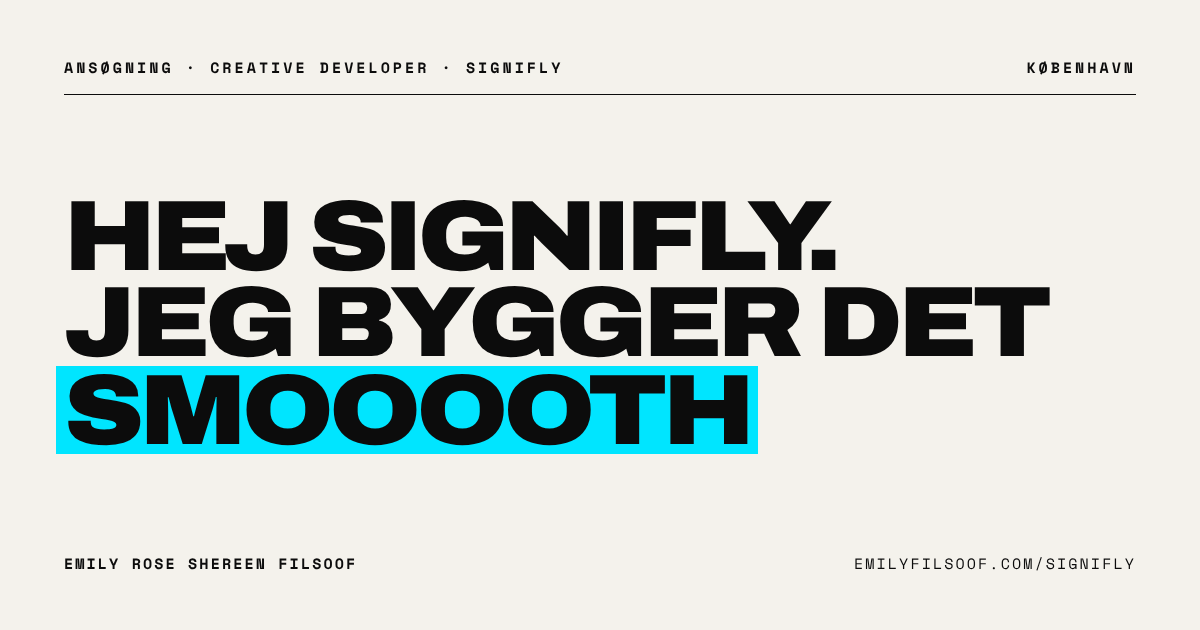
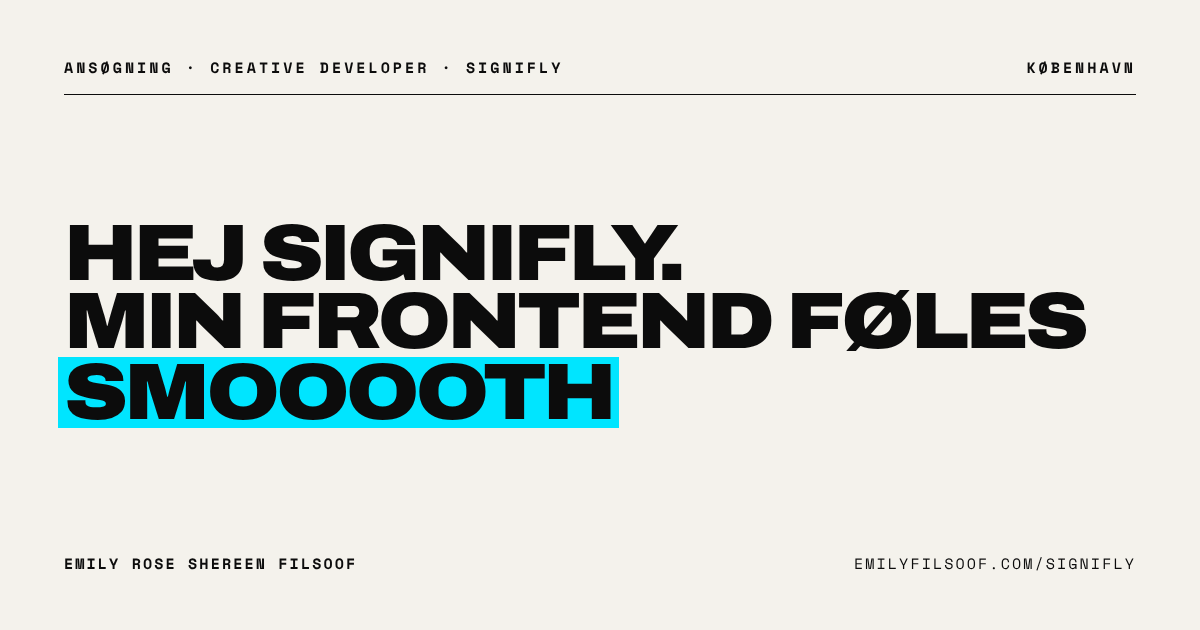
Signifly copy: 'Min frontend føles smooooth' and 'Skal vi tage en snak?'
'Jeg bygger det smooth' and 'Lad os tale om det' read as translated English.
The share image follows the new headline. The section heading with
emilyfilsoof.com no longer runs off 320px phones.

Claude-Session: https://claude.ai/code/session_01Kj2p2N6W6cLQYgAGRRy3tD

Changed region(s): [[0.0308, 0.3016, 0.925, 0.7238]]

diff --git a/src/app/signifly/page.tsx b/src/app/signifly/page.tsx
@@ -75,7 +75,7 @@ export default function SigniflyPage() {
         <div className={styles.heroMain}>
           <h1 className={styles.title}>
             <span className={styles.line}>Hej Signifly.</span>
-            <span className={styles.line}>Jeg bygger det</span>
+            <span className={styles.line}>Min frontend føles</span>
             <span className={`${styles.line} ${styles.smoothLine}`}>
               <Smooth />
             </span>
@@ -219,7 +219,7 @@ export default function SigniflyPage() {
       </section>
 
       <section className={`page ${styles.cta}`} data-bg="#00e5ff" data-ink="#0c0c0c">
-        <h2 className={styles.ctaTitle}>Lad os tale om det.</h2>
+        <h2 className={styles.ctaTitle}>Skal vi tage en snak?</h2>
         <div className={styles.contact}>
           <a href={`mailto:${profile.contact.email}`} data-mag>
             {profile.contact.email}

diff --git a/src/app/signifly/signifly.module.css b/src/app/signifly/signifly.module.css
@@ -172,6 +172,13 @@
   text-wrap: balance;
 }
 
+/* "EMILYFILSOOF.COM," is one word; on 320px phones it needs a smaller size to fit. */
+@media (max-width: 360px) {
+  .h2 {
+    font-size: 23px;
+  }
+}
+
 .note {
   margin: 0;
   font-size: 10px;
